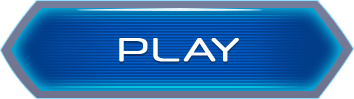
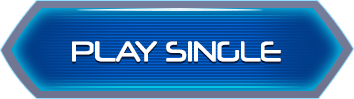
History Views

Changed region(s): [[0.1864, 0.3636, 0.8079, 0.697]]

diff --git a/TickTackToeGame/src/main/resources/com/main/ticktacktoegame/styles/chooseMode.css b/TickTackToeGame/src/main/resources/com/main/ticktacktoegame/styles/chooseMode.css
@@ -37,3 +37,11 @@ Click nbfs://nbhost/SystemFileSystem/Templates/Other/CascadeStyleSheet.css to ed
     -fx-background-repeat: no-repeat;
     -fx-background-position: center;
 }
+
+.backBtn{
+    -fx-background-color: none;
+    -fx-background-image: url(../images/back.png);
+    -fx-background-size: contain;
+    -fx-background-repeat: no-repeat;
+    -fx-background-position: center;
+}

diff --git a/TickTackToeGame/src/main/resources/com/main/ticktacktoegame/styles/welcome.css b/TickTackToeGame/src/main/resources/com/main/ticktacktoegame/styles/welcome.css
@@ -48,3 +48,11 @@
     -fx-background-repeat: no-repeat;
     -fx-background-position: center;
 }
+
+.historyBtn{
+        -fx-background-color: none;
+    -fx-background-image: url(../images/historybutton.png);
+    -fx-background-size: contain;
+    -fx-background-repeat: no-repeat;
+    -fx-background-position: center;
+}

diff --git a/TickTackToeGame/src/main/resources/com/main/ticktacktoegame/styles/onlinehome.css b/TickTackToeGame/src/main/resources/com/main/ticktacktoegame/styles/onlinehome.css
@@ -130,3 +130,11 @@
     -fx-background-repeat: no-repeat;
     -fx-background-position: center;
 }
+
+.backBtn{
+    -fx-background-color: none;
+    -fx-background-image: url(../images/back.png);
+    -fx-background-size: contain;
+    -fx-background-repeat: no-repeat;
+    -fx-background-position: center;
+}

diff --git a/TickTackToeGame/src/main/java/com/main/ticktacktoegame/Controllers/SingleModeHistoryController.java b/TickTackToeGame/src/main/java/com/main/ticktacktoegame/Controllers/SingleModeHistoryController.java
@@ -37,36 +37,43 @@ public class SingleModeHistoryController implements Initializable {
      */
     @FXML
     Label usernameLabel;
-    
+
     @FXML
     Label bonusPointsLabel;
-    
+
     @FXML
     Label rankLabel;
 
     @FXML
     TableView<SingleModeGameModel> singleModeHistoryTabel;
-    
+
     @FXML
     TableColumn<SingleModeGameModel, String> gameDate;
-    
+
     @FXML
     TableColumn<SingleModeGameModel, String> playerType;
-    
+
     @FXML
     TableColumn<SingleModeGameModel, String> difficulty;
-    
+
     @FXML
     TableColumn<SingleModeGameModel, String> playerCase;
-    
-    
-    
+
     ObservableList<SingleModeGameModel> singleModeHistory = FXCollections.observableArrayList(SingleModeGameModel.singleModeHistory);
-    
+
     @FXML
     public void switchToWelcomeView() {
         try {
             App.setRoot("WelcomeView");
+        } catch (IOException ex) {
+            ex.printStackTrace();
+        }
+    }
+
+    @FXML
+    public void SwitchToPreviousView() {
+        try {
+            App.setRoot("chooseHistoryMode");
         } catch (IOException ex) {
             ex.printStackTrace();
         }
@@ -79,21 +86,21 @@ public class SingleModeHistoryController implements Initializable {
         rankLabel.setText(Client.player.getPlayerRank());
         refreshTable();
     }
-    
-    
+
     public void refreshTable() {
         new Thread(() -> {
-         while (true) {
-             refresh();
-             try {
-                 Thread.sleep(1000);
-             } catch (InterruptedException ex) {
-                 Logger.getLogger(SingleModeHistoryController.class.getName()).log(Level.SEVERE, null, ex);
-             }
-         }
-            
+            while (true) {
+                refresh();
+                try {
+                    Thread.sleep(1000);
+                } catch (InterruptedException ex) {
+                    Logger.getLogger(SingleModeHistoryController.class.getName()).log(Level.SEVERE, null, ex);
+                }
+            }
+
         }).start();
     }
+
     private void refresh() {
         if (!SingleModeGameModel.singleModeHistory.isEmpty()) {
             gameDate.setCellValueFactory(new PropertyValueFactory<>("gameDate"));
@@ -102,20 +109,20 @@ public class SingleModeHistoryController implements Initializable {
             playerCase.setCellValueFactory(new PropertyValueFactory<>("playerCase"));
 
             singleModeHistoryTabel.setItems(singleModeHistory);
-        }
-        else 
+        } else {
             singleModeHistoryTabel.setPlaceholder(new Label("You didn't play any single mode game"));
+        }
     }
-    
+
     @FXML
-    public void exit(){
+    public void exit() {
         try {
             App.setRoot("exitView");
         } catch (IOException ex) {
             Logger.getLogger(SingleModeHistoryController.class.getName()).log(Level.SEVERE, null, ex);
         }
-    }  
-    
+    }
+
     @FXML
     public void playGame() {
         SingleModeGameModel selectedGame = singleModeHistoryTabel.getSelectionModel().getSelectedItem();

diff --git a/TickTackToeGame/src/main/java/com/main/ticktacktoegame/Controllers/MultiModeHistoryController.java b/TickTackToeGame/src/main/java/com/main/ticktacktoegame/Controllers/MultiModeHistoryController.java
@@ -38,36 +38,43 @@ public class MultiModeHistoryController implements Initializable {
      */
     @FXML
     Label usernameLabel;
-    
+
     @FXML
     Label bonusPointsLabel;
-    
+
     @FXML
     Label rankLabel;
 
     @FXML
     TableView<MultiModeGameModel> multiModeHistoryTabel;
-    
+
     @FXML
     TableColumn<MultiModeGameModel, String> gameDate;
-    
+
     @FXML
     TableColumn<MultiModeGameModel, String> playerType;
-    
+
     @FXML
     TableColumn<MultiModeGameModel, String> opponent;
-    
+
     @FXML
     TableColumn<MultiModeGameModel, String> playerCase;
-    
-    
-    
+
     ObservableList<MultiModeGameModel> multiModeHistory = FXCollections.observableArrayList(MultiModeGameModel.multiModeHistory);
-    
+
     @FXML
     public void switchToWelcomeView() {
         try {
             App.setRoot("WelcomeView");
+        } catch (IOException ex) {
+            ex.printStackTrace();
+        }
+    }
+
+    @FXML
+    public void SwitchToPreviousView() {
+        try {
+            App.setRoot("chooseHistoryMode");
         } catch (IOException ex) {
             ex.printStackTrace();
         }
@@ -80,21 +87,21 @@ public class MultiModeHistoryController implements Initializable {
         rankLabel.setText(Client.player.getPlayerRank());
         refreshTable();
     }
-    
-    
+
     public void refreshTable() {
         new Thread(() -> {
-         while (true) {
-             refresh();
-             try {
-                 Thread.sleep(1000);
-             } catch (InterruptedException ex) {
-                 Logger.getLogger(MultiModeHistoryController.class.getName()).log(Level.SEVERE, null, ex);
-             }
-         }
-            
+            while (true) {
+                refresh();
+                try {
+                    Thread.sleep(1000);
+                } catch (InterruptedException ex) {
+                    Logger.getLogger(MultiModeHistoryController.class.getName()).log(Level.SEVERE, null, ex);
+                }
+            }
+
         }).start();
     }
+
     private void refresh() {
         if (!SingleModeGameModel.singleModeHistory.isEmpty()) {
             gameDate.setCellValueFactory(new PropertyValueFactory<>("gameDate"));
@@ -103,20 +110,20 @@ public class MultiModeHistoryController implements Initializable {
             playerCase.setCellValueFactory(new PropertyValueFactory<>("playerCase"));
 
             multiModeHistoryTabel.setItems(multiModeHistory);
-        }
-        else 
+        } else {
             multiModeHistoryTabel.setPlaceholder(new Label("You didn't play any multi mode game"));
+        }
     }
-    
+
     @FXML
-    public void exit(){
+    public void exit() {
         try {
             App.setRoot("exitView");
         } catch (IOException ex) {
             Logger.getLogger(MultiModeHistoryController.class.getName()).log(Level.SEVERE, null, ex);
         }
-    }  
-    
+    }
+
     @FXML
     public void playGame() {
         MultiModeGameModel selectedGame = multiModeHistoryTabel.getSelectionModel().getSelectedItem();

diff --git a/TickTackToeGame/src/main/java/com/main/ticktacktoegame/Controllers/ChooseHistoryModeController.java b/TickTackToeGame/src/main/java/com/main/ticktacktoegame/Controllers/ChooseHistoryModeController.java
@@ -1,0 +1,56 @@
+/*
+ * Click nbfs://nbhost/SystemFileSystem/Templates/Licenses/license-default.txt to change this license
+ * Click nbfs://nbhost/SystemFileSystem/Templates/javafx/FXMLController.java to edit this template
+ */
+package com.main.ticktacktoegame.Controllers;
+
+import com.main.ticktacktoegame.App;
+import java.io.IOException;
+import java.net.URL;
+import java.util.ResourceBundle;
+import javafx.fxml.FXML;
+import javafx.fxml.Initializable;
+
+/**
+ * FXML Controller class
+ *
+ * @author Roo
+ */
+public class ChooseHistoryModeController implements Initializable {
+
+    /**
+     * Initializes the controller class.
+     */
+    @FXML
+    private void switchToSingleModeHistoryView() {
+        try {
+            App.setRoot("singleModeHistoryView");
+        } catch (IOException ex) {
+            ex.printStackTrace();
+        }
+    }
+
+    @FXML
+    private void switchToMultiModeHistoryView() {
+        try {
+            App.setRoot("multiModeHistoryView");
+        } catch (IOException ex) {
+            ex.printStackTrace();
+        }
+    }
+
+    @FXML
+    private void SwitchToPreviousView() {
+        try {
+            App.setRoot("WelcomeView");
+        } catch (IOException ex) {
+            ex.printStackTrace();
+        }
+    }
+
+    @Override
+    public void initialize(URL url, ResourceBundle rb) {
+        // TODO
+    }
+
+}

diff --git a/TickTackToeGame/src/main/java/com/main/ticktacktoegame/Controllers/WelcomeController.java b/TickTackToeGame/src/main/java/com/main/ticktacktoegame/Controllers/WelcomeController.java
@@ -35,9 +35,18 @@ public class WelcomeController implements Initializable {
 
 //    @FXML static Label onlinePlayer0;
     @FXML
-    private void switchToPlayModeView() {
+    private void switchToSingleMode() {
+//        try {
+            switchToChooseDifficultyView();
+
+//        } catch (IOException ex) {
+//            ex.printStackTrace();
+//        }
+    }
+
+    public void switchToChooseDifficultyView() {
         try {
-            App.setRoot("ChooseModeView");
+            App.setRoot("chooseLevelView");
         } catch (IOException ex) {
             ex.printStackTrace();
         }
@@ -51,6 +60,16 @@ public class WelcomeController implements Initializable {
             ex.printStackTrace();
         }
     }
+
+    @FXML
+    private void switchToChooseHistoryModeView() {
+        try {
+            App.setRoot("chooseHistoryMode");
+        } catch (IOException ex) {
+            ex.printStackTrace();
+        }
+    }
+
     @FXML
     public void exit() {
         try {
@@ -59,6 +78,7 @@ public class WelcomeController implements Initializable {
             Logger.getLogger(WelcomeController.class.getName()).log(Level.SEVERE, null, ex);
         }
     }
+
     @Override
     public void initialize(URL url, ResourceBundle rb) {
         usernameLabel.setText(Client.player.getUserName());
